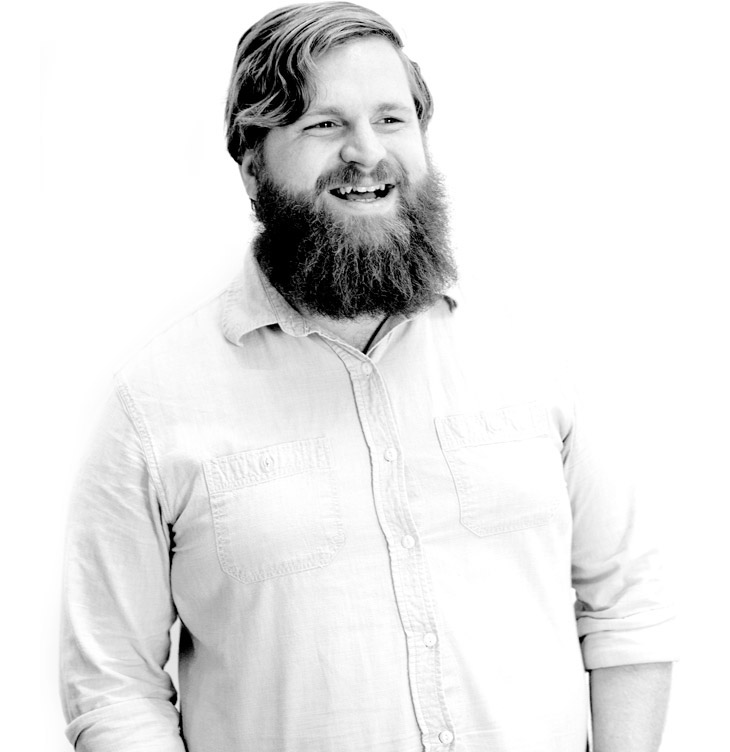
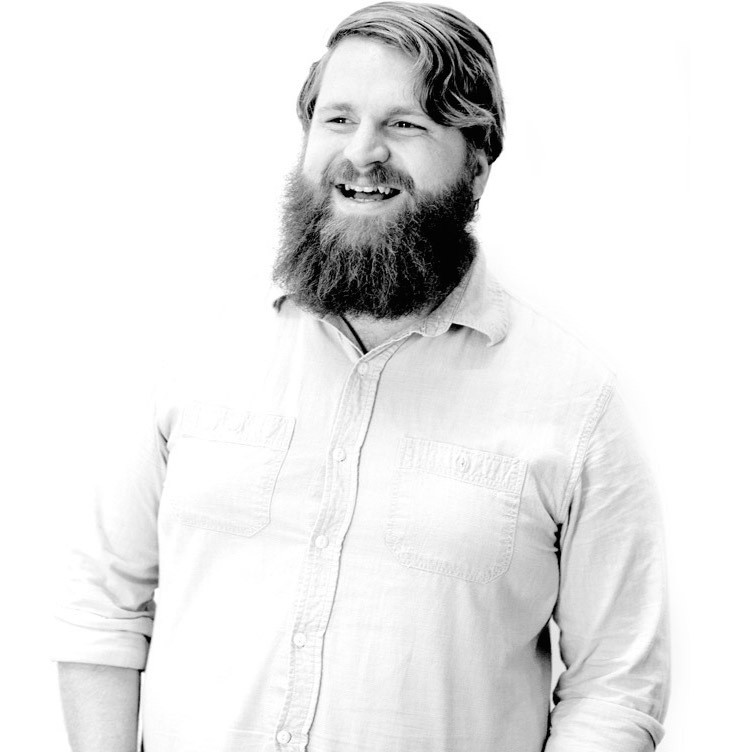
- updated team
- removed Godfrey from team page and homepage image
- rearranged team members to maintain alternating positioning
- changed Chuck's title to “Product Developer”
- flipped Gabe and Pat's images to better suit the layout

diff --git a/meet-the-team.html b/meet-the-team.html
@@ -58,38 +58,6 @@ title: Meet the Brewhouse Team
         <div class="col-xs-12 col-sm-6 col-sm-push-6">
           <div class="team-member-name">
             <em>Software Engineer</em>
-            <h2>Godfrey Chan </h2>
-          </div>
-
-          <div class="bio">
-            <p>
-              Since moving to Canada 8 years ago Godfrey has been on a quest to understand technology and the opportunities it provides. Godfrey utilizes his unique blend of computer science, cognitive science, and interaction design knowledge to solve complex problems for client and internal projects, benefiting as well the entire development community through contributions to open source projects &mdash; including core <a href="http://rubyonrails.org">Ruby on Rails</a> &mdash; and, more recently, his speaking engagements on <a href="http://emberjs.com">EmberJS</a>.
-            </p>
-          </div>
-
-          <div class="social-buttons">
-            <a href="https://github.com/chancancode" target="_blank"><i class="fi-social-github"></i></a>
-            <a href="https://twitter.com/chancancode" target="_blank"><i class="fi-social-twitter"></i></a>
-            <a href="http://ca.linkedin.com/in/godfreykfc" target="_blank"><i class="fi-social-linkedin"></i></a>
-          </div>
-        </div>
-
-        <div class="col-xs-12 col-sm-6 col-sm-pull-6 team-member-photo">
-          <img class="img-responsive" src="/images/team/godfrey_chan_chancancode-2.jpg">
-        </div>
-
-      </div><!-- /.container -->
-
-    </div><!-- end left -->
-
-    <!-- right aligned -->
-    <div class="content team-member">
-
-      <div class="container">
-
-        <div class="col-xs-12 col-sm-6">
-          <div class="team-member-name">
-            <em>Software Engineer</em>
             <h2>Philippe Creux</h2>
           </div>
 
@@ -106,22 +74,22 @@ title: Meet the Brewhouse Team
           </div>
         </div>
 
-        <div class="col-xs-12 col-sm-6 team-member-photo">
+        <div class="col-xs-12 col-sm-6 col-sm-pull-6 team-member-photo">
           <img class="img-responsive" src="/images/team/philippe_creux_pcreux-2.jpg">
         </div>
 
       </div><!-- /.container -->
 
-    </div><!-- end right -->
+    </div><!-- end left -->
 
-    <!-- left aligned -->
+    <!-- right aligned -->
     <div class="content team-member">
 
       <div class="container">
 
-        <div class="col-xs-12 col-sm-6 col-sm-push-6">
+        <div class="col-xs-12 col-sm-6">
           <div class="team-member-name">
-            <em>Creative Lead</em>
+            <em>Product Developer</em>
             <h2>Chuck Bergeron</h2>
           </div>
 
@@ -138,20 +106,20 @@ title: Meet the Brewhouse Team
           </div>
         </div>
 
-        <div class="col-xs-12 col-sm-6 col-sm-pull-6 team-member-photo">
+        <div class="col-xs-12 col-sm-6 team-member-photo">
           <img class="img-responsive" src="/images/team/chuck_bergeron_chuckbergeron-2.jpg">
         </div>
 
       </div><!-- /.container -->
 
-    </div><!-- end left -->
+    </div><!-- end right -->
 
-    <!-- right aligned -->
+    <!-- left aligned -->
     <div class="content team-member">
 
       <div class="container">
 
-        <div class="col-xs-12 col-sm-6">
+        <div class="col-xs-12 col-sm-6 col-sm-push-6">
           <div class="team-member-name">
             <em>Community Manager</em>
             <h2>Lana Topham</h2>
@@ -170,20 +138,20 @@ title: Meet the Brewhouse Team
           </div>
         </div>
 
-        <div class="col-xs-12 col-sm-6 team-member-photo">
+        <div class="col-xs-12 col-sm-6 col-sm-pull-6 team-member-photo">
           <img class="img-responsive" src="/images/team/lana_topham_mstopham-2.jpg">
         </div>
 
       </div><!-- /.container -->
 
-    </div><!-- end right -->
+    </div><!-- end left -->
 
-    <!-- left aligned -->
+    <!-- right aligned -->
     <div class="content team-member">
       
       <div class="container">
 
-        <div class="col-xs-12 col-sm-6 col-sm-push-6">
+        <div class="col-xs-12 col-sm-6">
           <div class="team-member-name">
             <em>Software Engineer</em>
             <h2>Gabe Scholz</h2>
@@ -202,22 +170,22 @@ title: Meet the Brewhouse Team
           </div>
         </div>
 
-        <div class="col-xs-12 col-sm-6 col-sm-pull-6 team-member-photo">
+        <div class="col-xs-12 col-sm-6 team-member-photo">
           <img class="img-responsive" src="/images/team/gabe_scholz_gabescholz-2.jpg">
         </div>
 
       </div>
 
-    </div><!-- end left -->
+    </div><!-- end right -->
 
-    <!-- right aligned -->
+    <!-- left aligned -->
     <div class="content team-member">
 
       <div class="container">
 
-        <div class="col-xs-12 col-sm-6">
+        <div class="col-xs-12 col-sm-6 col-sm-push-6">
           <div class="team-member-name">
-            <em>Product Development</em>
+            <em>Product Developer</em>
             <h2>Mark Hazlett</h2>
           </div>
 
@@ -234,20 +202,20 @@ title: Meet the Brewhouse Team
           </div>
         </div>
 
-        <div class="col-xs-12 col-sm-6 team-member-photo">
+        <div class="col-xs-12 col-sm-6 col-sm-pull-6 team-member-photo">
           <img class="img-responsive" src="/images/team/mark_hazlett_markhazlett-2.jpg">
         </div>
 
       </div><!-- /.container -->
 
-    </div><!-- end right -->
+    </div><!-- end left -->
 
-    <!-- left aligned -->
+    <!-- right aligned -->
     <div class="content team-member">
       
       <div class="container">
 
-        <div class="col-xs-12 col-sm-6 col-sm-push-6">
+        <div class="col-xs-12 col-sm-6">
           <div class="team-member-name">
             <em>Design Director</em>
             <h2>Pat Dryburgh</h2>
@@ -265,34 +233,14 @@ title: Meet the Brewhouse Team
           </div>
         </div>
 
-        <div class="col-xs-12 col-sm-6 col-sm-pull-6 team-member-photo">
+        <div class="col-xs-12 col-sm-6 team-member-photo">
           <img class="img-responsive" src="/images/team/pat_dryburgh_pat_dryburgh-2.jpg">
         </div>
 
       </div>
 
-    </div><!-- end left -->
+    </div><!-- end right -->
 
     {% include _lets_talk.html %}
-
-    <!-- left aligned -->
-    <!-- <div class="row team-member">
-      <div class="col-xs-9 col-sm-6 col-sm-push-0 col-lg-push-1 col-lg-5">
-        <img class="img-responsive" src="/images/team/our_next_apprentice.jpg">
-      </div>
-
-      <div class="col-xs-12 col-sm-6 col-lg-push-1 col-lg-5">
-        <div class="team-member-name">
-          Our Next Apprentice
-          <small>???</small>
-        </div>
-
-        <div class="bio">
-          <p>
-            Drop us a line if you're interested in working with us, or becoming a Brewhouse Apprentice.
-          </p>
-        </div>
-      </div>
-    </div> --><!-- end left -->
 
 </div><!-- /#team -->
